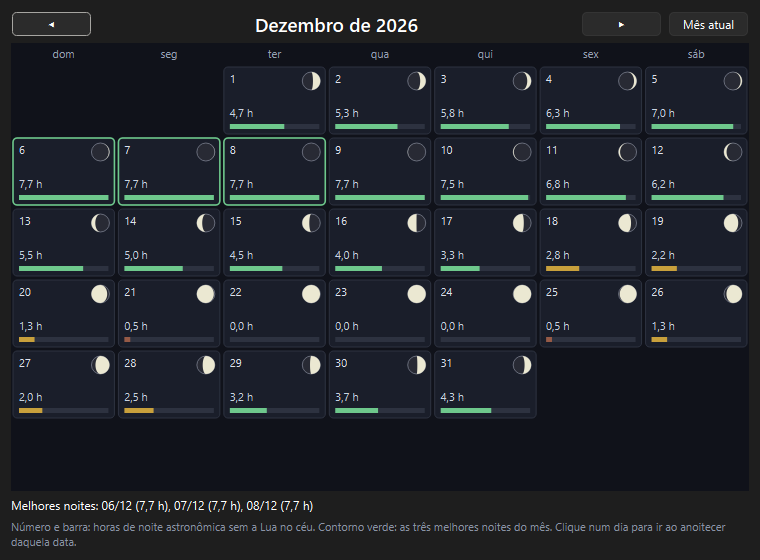
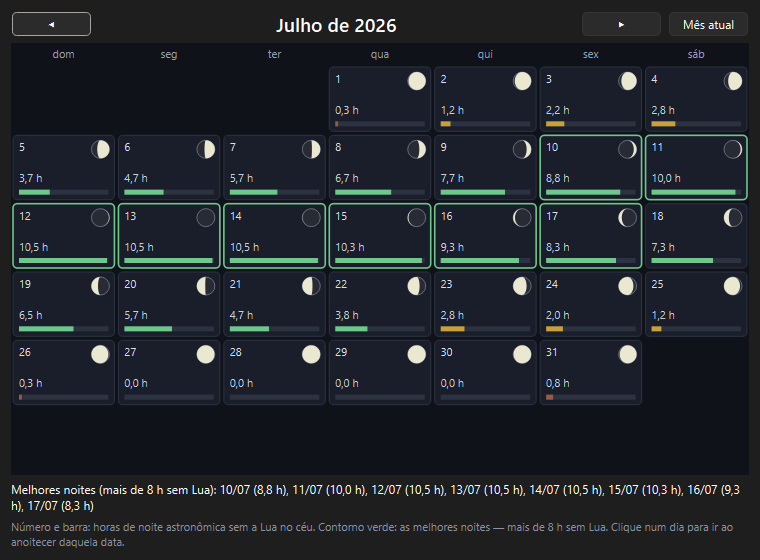
chore: versão 0.16.1, documentação dos ajustes

diff --git a/src/carina/__init__.py b/src/carina/__init__.py
@@ -1,3 +1,3 @@
 """Carina — planetário desktop em Python (PySide6 + OpenGL + Skyfield)."""
 
-__version__ = "0.16.0"
+__version__ = "0.16.1"

diff --git a/docs/INTERFACE.md b/docs/INTERFACE.md
@@ -1,6 +1,6 @@
 # Referência da interface
 
-> Carina 0.16.0 — produto em desenvolvimento.
+> Carina 0.16.1 — produto em desenvolvimento.
 
 Cada menu, botão e painel, com o que faz e o atalho correspondente.
 
@@ -129,7 +129,7 @@ Oito menus, agrupados por tarefa. A lista completa de atalhos está em
 | Exportar vista… | `Ctrl+S` | Salva a tela atual em PNG, JPG ou PDF |
 | Gerar carta celeste… | `Ctrl+Shift+P` | Carta para imprimir com moldura, perfis e atlas ([IMPRESSAO.md](IMPRESSAO.md)) |
 | Anotar a vista atual… | | Editor de anotações sobre a tela em modo mapa |
-| Preferências… | `Ctrl+,` | Fonte da interface, rótulos do céu, instrumento da nota |
+| Preferências… | `Ctrl+,` | Idioma, fonte da interface, rótulos do céu, instrumento da nota |
 | Sair | | Fecha o programa |
 
 ### Exibir
@@ -138,10 +138,10 @@ Quatro submenus de camadas e os controles gerais da vista.
 
 | Submenu | Conteúdo |
 |---|---|
-| **Objetos** | Estrelas · Planetas, Sol e Lua (`P`) · Objetos de céu profundo (`D`) · Imagens DSS (`I`) · Via Láctea (`M`) |
+| **Objetos** | Estrelas · Planetas, Sol e Lua (`P`) · Objetos de céu profundo (`D`) · Imagens DSS (`I`) · Via Láctea (`M`) · **Catálogos do céu profundo** (liga e desliga Messier, NGC, IC, Caldwell, Sh2, Barnard, Melotte, LDN, Collinder, vdB e Abell, ou todos de uma vez; um objeto em vários catálogos aparece se algum estiver ligado) |
 | **Linhas e grades** | Linhas (`C`) e fronteiras (`B`) das constelações · Grade horizontal (`Z`) · Grade equatorial (`E`) · Meridiano · Eclíptica · Equador · Linha do horizonte (`H`) · Pontos cardeais (`Q`) |
 | **Rótulos** | Nomes das estrelas (`N`), dos planetas e do céu profundo · estrelas por nome próprio ou Bayer · céu profundo por número ou nome · Caldwell pela designação C · **Nomes das constelações** (não exibir, português, latim, abreviado) · **Idioma dos nomes dos objetos** (português, inglês original, latim) |
-| **Céu** | Atmosfera (`A`) · Refração (`R`) · Solo opaco (`G`/`V`) · **Poluição luminosa (Bortle)** · **Magnitude máxima das estrelas** |
+| **Céu** | Atmosfera (`A`) · Refração (`R`) · Solo opaco (`G`/`V`) · **Poluição luminosa (Bortle)** · **Magnitude máxima das estrelas**. Sem atmosfera não há poluição luminosa: o céu é desenhado como Bortle 1, e o Bortle escolhido volta ao religá-la |
 
 Abaixo dos submenus: **Filtros do céu profundo…** (`Ctrl+Shift+C`, ver
 [CATALOGOS.md](CATALOGOS.md)), **Modo mapa para impressão** (`Ctrl+M`),
@@ -181,7 +181,6 @@ na barra lateral** e a exibição dos painéis.
 | Velocidade normal | `7` | Volta a 1× |
 | Ir para data/hora… | `Ctrl+T` | Salta para um instante, na **hora do observador** |
 | **Ir para ▸** | | Pôr do sol · Início da noite astronômica · Meia-noite local · Fim da noite astronômica · Nascer do sol (pausa no instante) |
-| Calendário de noites escuras… | `Ctrl+Shift+N` | Horas sem Lua de cada noite do mês; clique leva à data |
 | Passo dos botões | | De 1 minuto a 1 ano |
 | Retroceder / avançar | `Ctrl+←` `Ctrl+→` | Um passo para trás ou para frente |
 
@@ -226,6 +225,7 @@ na barra lateral** e a exibição dos painéis.
 | Item | Atalho | O que faz |
 |---|---|---|
 | Hoje à noite… | `T` | Resumo da noite com os melhores alvos |
+| Calendário de noites escuras… | `Ctrl+Shift+N` | Horas sem Lua de cada noite do mês; destaca as com mais de 8 h; clique leva à data |
 | Roteiros ▸ | | Maratonas, melhores objetos, roteiro da minha lista, destaques ([PLANEJAMENTO.md](PLANEJAMENTO.md)) |
 | Campo de visão (equipamentos)… | `Ctrl+K` | Simulador de enquadramento |
 | Configurar planejamento… | `Ctrl+Shift+O` | Ritmo, janela da noite e altitude mínima |

diff --git a/docs/ASTROFOTOGRAFIA.md b/docs/ASTROFOTOGRAFIA.md
@@ -1,6 +1,6 @@
 # Observação e astrofotografia
 
-> Carina 0.16.0 — produto em desenvolvimento.
+> Carina 0.16.1 — produto em desenvolvimento.
 
 As ferramentas para quem observa com instrumento e para quem fotografa:
 enquadramento, influência da Lua, rastreamento e simulação do céu real.
@@ -113,8 +113,8 @@ E as **cores** dizem a qualidade da posição:
 
 | Cor | Situação |
 |---|---|
-| Azul claro | Boa altitude, sem Lua por perto |
-| Laranja | Afetado pela Lua |
+| Branco | Boa altitude, sem Lua por perto |
+| Azul | Afetado pela Lua |
 | Amarelo | Abaixo de 45° |
 | Laranja escuro | Abaixo de 30° |
 | Vermelho | Abaixo de 20° — massa de ar alta demais |
@@ -124,8 +124,15 @@ Os limiares e todas as cores são configuráveis.
 ### Marcadores de hora
 
 Pontos ao longo da trajetória a cada 30 minutos, com o **horário
-rotulado** a cada hora. Eles caem em minutos redondos — 18:00, 18:30,
-19:00 — para você conferir contra o relógio no campo.
+rotulado** a cada hora ("19h", "20h"…). Eles caem em minutos redondos —
+18:00, 18:30, 19:00 — para você conferir contra o relógio no campo. Os
+horários saem em **negrito com contorno**, afastados da linha, para não se
+confundirem com o traçado; quando a trajetória é curta e apertada, uma
+linha guia liga o horário ao ponto.
+
+A janela abre com a **altura toda da tela** e a vista do céu (leste à
+esquerda), fonte 1,4× e a legenda embaixo. Tudo o que você mudar em
+**Configurações** fica salvo e vale para as próximas janelas.
 
 ### Configurações
 

diff --git a/docs/PLANEJAMENTO.md b/docs/PLANEJAMENTO.md
@@ -1,6 +1,6 @@
 # Planejamento de observação
 
-> Carina 0.16.0 — produto em desenvolvimento.
+> Carina 0.16.1 — produto em desenvolvimento.
 
 O Carina não só mostra o céu: ele responde **"dá para ver isto hoje, e a
 que horas?"** em todo lugar, e transforma a resposta num roteiro da noite
@@ -253,7 +253,7 @@ dentro da janela do roteiro.
 
 ## Calendário de noites escuras
 
-*Tempo → Calendário de noites escuras…* (`Ctrl+Shift+N`).
+*Planejar → Calendário de noites escuras…* (`Ctrl+Shift+N`).
 
 <div align="center">
 <img src="imagens/calendario-noites.png" alt="Calendário de noites escuras" width="75%">
@@ -261,7 +261,9 @@ dentro da janela do roteiro.
 
 Para cada noite do mês: a fase da Lua desenhada como você a vê do seu
 hemisfério e as **horas de noite astronômica sem Lua** (número e barra).
-As três melhores noites ganham contorno verde. Clique num dia para levar
+As **melhores noites** — mais de 8 horas de noite astronômica sem Lua —
+ganham contorno verde. No verão das latitudes médias a noite astronômica é
+curta e pode não haver nenhuma; o resumo então diz qual foi a mais escura. Clique num dia para levar
 a simulação ao anoitecer daquela data — é a forma mais rápida de escolher
 o fim de semana da viagem ao céu escuro.
 

diff --git a/docs/PRIMEIROS_PASSOS.md b/docs/PRIMEIROS_PASSOS.md
@@ -1,6 +1,6 @@
 # Primeiros passos
 
-> Carina 0.16.0 — produto em desenvolvimento.
+> Carina 0.16.1 — produto em desenvolvimento.
 
 Um passeio guiado, do primeiro clique até um plano de observação impresso
 na mão. Reserve uns quinze minutos e faça junto com o programa aberto.
@@ -9,7 +9,9 @@ na mão. Reserve uns quinze minutos e faça junto com o programa aberto.
 
 ## 1. A primeira abertura
 
-Na primeira vez, um **assistente de três passos** pergunta **onde você
+Na primeira vez, um **assistente** pergunta primeiro o **idioma** (português
+ou inglês — em inglês, por enquanto, os nomes dos objetos e os diálogos do
+sistema; a interface completa chega na versão 1.0), depois **onde você
 observa** (a cidade, que também define o fuso horário), **como é o seu
 céu** (a escala de Bortle, com uma sugestão pela população da cidade) e
 **com o que você observa** (olho nu, binóculo ou telescópio). No fim, ele

diff --git a/docs/NOVIDADES.md b/docs/NOVIDADES.md
@@ -1,6 +1,20 @@
 # O que há de novo
 
-> Carina 0.16.0 — produto em desenvolvimento.
+> Carina 0.16.1 — produto em desenvolvimento.
+
+## 0.16.1 — Ajustes
+
+- **Idioma** no primeiro passo do assistente e nas Preferências.
+- **Via Láctea** sem o aspecto quadriculado nos campos amplos.
+- **Sem atmosfera, sem poluição luminosa**: desligar a atmosfera mostra o
+  céu de Bortle 1; ao religar, volta o seu Bortle.
+- **Catálogos inteiros** de uma vez em *Exibir → Objetos → Catálogos do céu
+  profundo*.
+- **Rastreamento**: traçado branco, Lua em azul, vista do céu, fonte maior,
+  horários em negrito com contorno, janela com a altura da tela — e as
+  configurações agora ficam salvas.
+- **Calendário de noites escuras** no menu *Planejar*, destacando as noites
+  com mais de 8 horas sem Lua.
 
 ## 0.16 — Carta, beleza e campo
 

diff --git a/docs/ATALHOS.md b/docs/ATALHOS.md
@@ -37,7 +37,6 @@ valem com a janela principal ativa.
 | Tempo | Mais rápido | `L` |
 | Tempo | Velocidade normal (1x) | `7` |
 | Tempo | Ir para data/hora | `Ctrl+T` |
-| Tempo | Calendário de noites escuras | `Ctrl+Shift+N` |
 | Tempo | Retroceder um passo | `Ctrl+Left` |
 | Tempo | Avançar um passo | `Ctrl+Right` |
 | Local | Localização | `Ctrl+L` |
@@ -55,6 +54,7 @@ valem com a janela principal ativa.
 | Sistema Solar | Exibir previsão da Lua no céu | `Shift+M` |
 | Sistema Solar | Zona de influência da Lua (astrofoto) | `U` |
 | Planejar | Hoje à noite | `T` |
+| Planejar | Calendário de noites escuras | `Ctrl+Shift+N` |
 | Planejar | Campo de visão (equipamentos) | `Ctrl+K` |
 | Planejar | Configurar planejamento | `Ctrl+Shift+O` |
 | Ajuda | Ajuda do Carina | `F1` |

diff --git a/docs/FUNCIONALIDADES.md b/docs/FUNCIONALIDADES.md
@@ -1,6 +1,6 @@
 # Funcionalidades
 
-> Carina 0.16.0 — produto em desenvolvimento.
+> Carina 0.16.1 — produto em desenvolvimento.
 
 O que o programa faz, recurso por recurso, e o que esperar de cada um.
 
@@ -189,7 +189,7 @@ Detalhes completos em [PLANEJAMENTO.md](PLANEJAMENTO.md).
   arrastável; filtros por instrumento, tipo, altitude e Lua; ir para no
   mapa e na hora; reordenar e remover.
 - **Calendário de noites escuras** (`Ctrl+Shift+N`): horas sem Lua de cada
-  noite do mês, com as três melhores destacadas.
+  noite do mês, com as de mais de 8 h destacadas (*Planejar*).
 - **PDF de campo** com o mapa da noite (paradas numeradas por direção e altura), checklist e cartas de
   localização, em tema claro, escuro ou vermelho; exportação em CSV e
   texto.

diff --git a/docs/README.md b/docs/README.md
@@ -4,7 +4,7 @@ Bem-vindo. Esta pasta reúne tudo o que você precisa para **instalar, usar
 e tirar proveito** do Carina — do primeiro clique ao planejamento de uma
 noite inteira de observação.
 
-> **Versão documentada: 0.16.0** — produto em desenvolvimento. Recursos e
+> **Versão documentada: 0.16.1** — produto em desenvolvimento. Recursos e
 > telas podem mudar entre versões; quando isso acontecer, esta pasta é
 > atualizada junto.
 

diff --git a/docs/IMPRESSAO.md b/docs/IMPRESSAO.md
@@ -1,6 +1,6 @@
 # Impressão e cartas celestes
 
-> Carina 0.16.0 — produto em desenvolvimento.
+> Carina 0.16.1 — produto em desenvolvimento.
 
 Tudo o que o Carina desenha pode sair da tela: em imagem, em PDF ou em
 papel. Desde a 0.16, as cartas são desenhadas **fora da tela**, em alta

diff --git a/docs/SOLUCAO_DE_PROBLEMAS.md b/docs/SOLUCAO_DE_PROBLEMAS.md
@@ -1,6 +1,6 @@
 # Solução de problemas
 
-> Carina 0.16.0 — produto em desenvolvimento. Se o seu problema não
+> Carina 0.16.1 — produto em desenvolvimento. Se o seu problema não
 > estiver aqui, ele pode ser um defeito ainda desconhecido: reporte com o
 > máximo de detalhes.
 

diff --git a/docs/DIARIO.md b/docs/DIARIO.md
@@ -1,6 +1,6 @@
 # Diário e listas
 
-> Carina 0.16.0 — produto em desenvolvimento.
+> Carina 0.16.1 — produto em desenvolvimento.
 
 O Carina guarda o que você cria: listas de alvos, o diário do que
 observou e os perfis de horizonte. Tudo fica num único arquivo no seu
